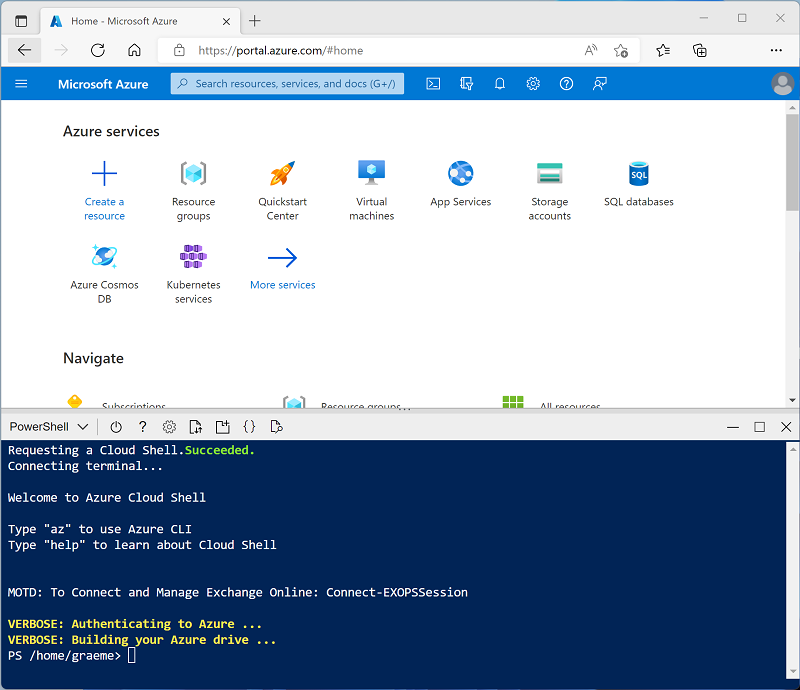
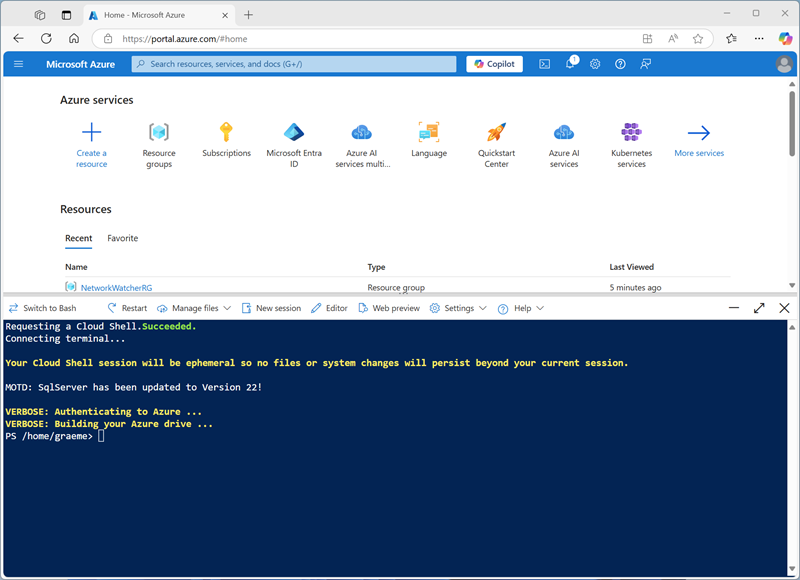
UI updates

diff --git a/Instructions/Exercises/LA-01-Explore-Azure-Databricks.md b/Instructions/Exercises/LA-01-Explore-Azure-Databricks.md
@@ -7,7 +7,9 @@ lab:
 
 Azure Databricks is a Microsoft Azure-based version of the popular open-source Databricks platform.
 
-Similarly to Azure Synapse Analytics, an Azure Databricks *workspace* provides a central point for managing Databricks clusters, data, and resources on Azure.
+An Azure Databricks *workspace* provides a central point for managing Databricks clusters, data, and resources on Azure.
+
+In this exercise, you'll provision an Azure Databricks workspace and explore some of its core capabilities. 
 
 This exercise should take approximately **20** minutes to complete.
 
@@ -15,32 +17,15 @@ This exercise should take approximately **20** minutes to complete.
 
 > **Tip**: If you already have an Azure Databricks workspace, you can skip this procedure and use your existing workspace.
 
-This exercise includes a script to provision a new Azure Databricks workspace. The script attempts to create a *Premium* tier Azure Databricks workspace resource in a region in which your Azure subscription has sufficient quota for the compute cores required in this exercise; and assumes your user account has sufficient permissions in the subscription to create an Azure Databricks workspace resource. If the script fails due to insufficient quota or permissions, you can try to [create an Azure Databricks workspace interactively in the Azure portal](https://learn.microsoft.com/azure/databricks/getting-started/#--create-an-azure-databricks-workspace).
+1. Sign into the **Azure portal** at `https://portal.azure.com`.
+2. Create an **Azure Databricks** resource with the following settings:
+    - **Subscription**: *Select your Azure subscription*
+    - **Resource group**: *Create a new resource group named `msl-xxxxxxx` (where "xxxxxxx" is a unique value)*
+    - **Region**: *Select any available region*
+    - **Name**: `databricks-xxxxxxx` *(where "xxxxxxx" is a unique value)*
+    - **Pricing tier**: *Premium* or *Trial*
 
-1. In a web browser, sign into the [Azure portal](https://portal.azure.com) at `https://portal.azure.com`.
-2. Use the **[\>_]** button to the right of the search bar at the top of the page to create a new Cloud Shell in the Azure portal, selecting a ***PowerShell*** environment and creating storage if prompted. The cloud shell provides a command line interface in a pane at the bottom of the Azure portal, as shown here:
-
-    ![Azure portal with a cloud shell pane](./images/cloud-shell.png)
-
-    > **Note**: If you have previously created a cloud shell that uses a *Bash* environment, use the drop-down menu at the top left of the cloud shell pane to change it to ***PowerShell***.
-
-3. Note that you can resize the cloud shell by dragging the separator bar at the top of the pane, or by using the **&#8212;**, **&#9723;**, and **X** icons at the top right of the pane to minimize, maximize, and close the pane. For more information about using the Azure Cloud Shell, see the [Azure Cloud Shell documentation](https://docs.microsoft.com/azure/cloud-shell/overview).
-
-4. In the PowerShell pane, enter the following commands to clone this repo:
-
-    ```
-    rm -r mslearn-databricks -f
-    git clone https://github.com/MicrosoftLearning/mslearn-databricks
-    ```
-
-5. After the repo has been cloned, enter the following command to run the **setup.ps1** script, which provisions an Azure Databricks workspace in an available region:
-
-    ```
-    ./mslearn-databricks/setup.ps1
-    ```
-
-6. If prompted, choose which subscription you want to use (this will only happen if you have access to multiple Azure subscriptions).
-7. Wait for the script to complete - this typically takes around 5 minutes, but in some cases may take longer. While you are waiting, review the [What is Azure Databricks?](https://learn.microsoft.com/azure/databricks/introduction/) article in the Azure Databricks documentation.
+3. Select **Review + create** and wait for deployment to complete. Then go to the resource and launch the workspace.
 
 ## Create a cluster
 
@@ -48,13 +33,12 @@ Azure Databricks is a distributed processing platform that uses Apache Spark *cl
 
 > **Tip**: If you already have a cluster with a 13.3 LTS or higher runtime version in your Azure Databricks workspace, you can use it to complete this exercise and skip this procedure.
 
-1. In the Azure portal, browse to the **msl-*xxxxxxx*** resource group that was created by the script (or the resource group containing your existing Azure Databricks workspace)
-1. Select your Azure Databricks Service resource (named **databricks-*xxxxxxx*** if you used the setup script to create it).
+1. In the Azure portal, browse to the **msl-*xxxxxxx*** resource group (or the resource group containing your existing Azure Databricks workspace) and select your Azure Databricks Service resource.
 1. In the **Overview** page for your workspace, use the **Launch Workspace** button to open your Azure Databricks workspace in a new browser tab; signing in if prompted.
 
     > **Tip**: As you use the Databricks Workspace portal, various tips and notifications may be displayed. Dismiss these and follow the instructions provided to complete the tasks in this exercise.
 
-1. In the sidebar on the left, select the **(+) New** task, and then select **Cluster**.
+1. In the sidebar on the left, select the **(+) New** task, and then select **Cluster** (you may need to look in the **More** submenu)
 1. In the **New Cluster** page, create a new cluster with the following settings:
     - **Cluster name**: *User Name's* cluster (the default cluster name)
     - **Policy**: Unrestricted
@@ -67,17 +51,17 @@ Azure Databricks is a distributed processing platform that uses Apache Spark *cl
 
 1. Wait for the cluster to be created. It may take a minute or two.
 
-> **Note**: If your cluster fails to start, your subscription may have insufficient quota in the region where your Azure Databricks workspace is provisioned. See [CPU core limit prevents cluster creation](https://docs.microsoft.com/azure/databricks/kb/clusters/azure-core-limit) for details. If this happens, you can try deleting your workspace and creating a new one in a different region. You can specify a region as a parameter for the setup script like this: `./mslearn-databricks/setup.ps1 eastus`
+> **Note**: If your cluster fails to start, your subscription may have insufficient quota in the region where your Azure Databricks workspace is provisioned. See [CPU core limit prevents cluster creation](https://docs.microsoft.com/azure/databricks/kb/clusters/azure-core-limit) for details. If this happens, you can try deleting your workspace and creating a new one in a different region.
 
 ## Use Spark to analyze data
 
 As in many Spark environments, Databricks supports the use of notebooks to combine notes and interactive code cells that you can use to explore data.
 
 1. Download the [**products.csv**](https://raw.githubusercontent.com/MicrosoftLearning/mslearn-databricks/main/data/products.csv) file from `https://raw.githubusercontent.com/MicrosoftLearning/mslearn-databricks/main/data/products.csv` to your local computer, saving it as **products.csv**.
-1. In the sidebar, in the **(+) New** link menu, select **Data**.
+1. In the sidebar, in the **(+) New** link menu, select **Add or upload data**.
 1. Select **Create or modify table** and upload the **products.csv** file you downloaded to your computer.
 1. In the **Create or modify table from file upload** page, ensure that your cluster is selected at the top right of the page. Then choose the **hive_metastore** catalog and its default schema to create a new table named **products**.
-1. In the **catalog Explorer** page when the **products** page has been created, in the **Create** button menu, select **Notebook** to create a notebook.
+1. In the **Catalog Explorer** page when the **products** table has been created, in the **Create** button menu, select **Notebook** to create a notebook.
 1. In the notebook, ensure that the notebook is connected to your cluster and then review the code that has been automatically been added to the first cell; which should look similar to this:
 
     ```python
@@ -100,7 +84,10 @@ As in many Spark environments, Databricks supports the use of notebooks to combi
 
 While most data analysts are comfortable using SQL code as used in the previous example, some data analysts and data scientists can use native Spark objects such as a *dataframe* in programming languages such as *PySpark* (A Spark-optimized version of Python) to work efficiently with data.
 
-1. In the notebook, under the chart output from the previously run code cell, use the **+** icon to add a new cell.
+1. In the notebook, under the chart output from the previously run code cell, use the **+ Code** icon to add a new cell.
+
+    > **Tip**: You may need to move the mouse under the output cell to make the **+ Code** icon appear.
+
 1. Enter and run the following code in the new cell:
 
     ```python

diff --git a/Instructions/Exercises/LA-02-Explore-data.md b/Instructions/Exercises/LA-02-Explore-data.md
@@ -22,13 +22,13 @@ This exercise includes a script to provision a new Azure Databricks workspace. T
 If the script fails due to insufficient quota or permissions, you can try to [create an Azure Databricks workspace interactively in the Azure portal](https://learn.microsoft.com/azure/databricks/getting-started/#--create-an-azure-databricks-workspace).
 
 1. In a web browser, sign into the [Azure portal](https://portal.azure.com) at `https://portal.azure.com`.
-2. Use the **[\>_]** button to the right of the search bar at the top of the page to create a new Cloud Shell in the Azure portal, selecting a ***PowerShell*** environment and creating storage if prompted. The cloud shell provides a command line interface in a pane at the bottom of the Azure portal, as shown here:
+2. Use the **[\>_]** button to the right of the search bar at the top of the page to create a new Cloud Shell in the Azure portal, selecting a ***PowerShell*** environment. The cloud shell provides a command line interface in a pane at the bottom of the Azure portal, as shown here:
 
     ![Azure portal with a cloud shell pane](./images/cloud-shell.png)
 
-    > **Note**: If you have previously created a cloud shell that uses a *Bash* environment, use the drop-down menu at the top left of the cloud shell pane to change it to ***PowerShell***.
+    > **Note**: If you have previously created a cloud shell that uses a *Bash* environment, switch it to ***PowerShell***.
 
-3. Note that you can resize the cloud shell by dragging the separator bar at the top of the pane, or by using the **&#8212;**, **&#9723;**, and **X** icons at the top right of the pane to minimize, maximize, and close the pane. For more information about using the Azure Cloud Shell, see the [Azure Cloud Shell documentation](https://docs.microsoft.com/azure/cloud-shell/overview).
+3. Note that you can resize the cloud shell by dragging the separator bar at the top of the pane, or by using the **&#8212;**, **&#10530;**, and **X** icons at the top right of the pane to minimize, maximize, and close the pane. For more information about using the Azure Cloud Shell, see the [Azure Cloud Shell documentation](https://docs.microsoft.com/azure/cloud-shell/overview).
 
 4. In the PowerShell pane, enter the following commands to clone this repo:
 
@@ -60,7 +60,7 @@ In this exercise, you'll create a *single-node* cluster to minimize the compute 
 
     > **Tip**: As you use the Databricks Workspace portal, various tips and notifications may be displayed. Dismiss these and follow the instructions provided to complete the tasks in this exercise.
 
-1. In the sidebar on the left, select the **(+) New** task, and then select **Cluster**.
+1. In the sidebar on the left, select the **(+) New** task, and then select **Cluster** (You may need to look in the **More** submenu)
 1. In the **New Cluster** page, create a new cluster with the following settings:
     - **Cluster name**: *User Name's* cluster (the default cluster name)
     - **Policy**: Unrestricted
@@ -98,7 +98,7 @@ In this exercise, you'll create a *single-node* cluster to minimize the compute 
 
 ## Query data in files
 
-1. Under the existing code cell, use the **+** icon to add a new code cell. Then in the new cell, enter and run the following code to load the data from the files and view the first 100 rows.
+1. Move the mouse under the existing code cell, and use the **+ Code** icon that appears to add a new code cell. Then in the new cell, enter and run the following code to load the data from the files and view the first 100 rows.
 
     ```python
    df = spark.read.load('spark_lab/*.csv', format='csv')

diff --git a/Instructions/Exercises/AI-01-Explore-LLMs.md b/Instructions/Exercises/AI-01-Explore-LLMs.md
@@ -20,14 +20,13 @@ You'll need an [Azure subscription](https://azure.microsoft.com/free) in which y
 This exercise includes a script to provision a new Azure Databricks workspace. The script attempts to create a *Premium* tier Azure Databricks workspace resource in a region in which your Azure subscription has sufficient quota for the compute cores required in this exercise; and assumes your user account has sufficient permissions in the subscription to create an Azure Databricks workspace resource. If the script fails due to insufficient quota or permissions, you can try to [create an Azure Databricks workspace interactively in the Azure portal](https://learn.microsoft.com/azure/databricks/getting-started/#--create-an-azure-databricks-workspace).
 
 1. In a web browser, sign into the [Azure portal](https://portal.azure.com) at `https://portal.azure.com`.
-
-2. Use the **[\>_]** button to the right of the search bar at the top of the page to create a new Cloud Shell in the Azure portal, selecting a ***PowerShell*** environment and creating storage if prompted. The cloud shell provides a command line interface in a pane at the bottom of the Azure portal, as shown here:
+2. Use the **[\>_]** button to the right of the search bar at the top of the page to create a new Cloud Shell in the Azure portal, selecting a ***PowerShell*** environment. The cloud shell provides a command line interface in a pane at the bottom of the Azure portal, as shown here:
 
     ![Azure portal with a cloud shell pane](./images/cloud-shell.png)
 
-    > **Note**: If you have previously created a cloud shell that uses a *Bash* environment, use the the drop-down menu at the top left of the cloud shell pane to change it to ***PowerShell***.
+    > **Note**: If you have previously created a cloud shell that uses a *Bash* environment, switch it to ***PowerShell***.
 
-3. Note that you can resize the cloud shell by dragging the separator bar at the top of the pane, or by using the **&#8212;**, **&#9723;**, and **X** icons at the top right of the pane to minimize, maximize, and close the pane. For more information about using the Azure Cloud Shell, see the [Azure Cloud Shell documentation](https://docs.microsoft.com/azure/cloud-shell/overview).
+3. Note that you can resize the cloud shell by dragging the separator bar at the top of the pane, or by using the **&#8212;**, **&#10530;**, and **X** icons at the top right of the pane to minimize, maximize, and close the pane. For more information about using the Azure Cloud Shell, see the [Azure Cloud Shell documentation](https://docs.microsoft.com/azure/cloud-shell/overview).
 
 4. In the PowerShell pane, enter the following commands to clone this repo:
 

diff --git a/Instructions/Exercises/AI-02-RAG.md b/Instructions/Exercises/AI-02-RAG.md
@@ -20,14 +20,13 @@ You'll need an [Azure subscription](https://azure.microsoft.com/free) in which y
 This exercise includes a script to provision a new Azure Databricks workspace. The script attempts to create a *Premium* tier Azure Databricks workspace resource in a region in which your Azure subscription has sufficient quota for the compute cores required in this exercise; and assumes your user account has sufficient permissions in the subscription to create an Azure Databricks workspace resource. If the script fails due to insufficient quota or permissions, you can try to [create an Azure Databricks workspace interactively in the Azure portal](https://learn.microsoft.com/azure/databricks/getting-started/#--create-an-azure-databricks-workspace).
 
 1. In a web browser, sign into the [Azure portal](https://portal.azure.com) at `https://portal.azure.com`.
-
-2. Use the **[\>_]** button to the right of the search bar at the top of the page to create a new Cloud Shell in the Azure portal, selecting a ***PowerShell*** environment and creating storage if prompted. The cloud shell provides a command line interface in a pane at the bottom of the Azure portal, as shown here:
+2. Use the **[\>_]** button to the right of the search bar at the top of the page to create a new Cloud Shell in the Azure portal, selecting a ***PowerShell*** environment. The cloud shell provides a command line interface in a pane at the bottom of the Azure portal, as shown here:
 
     ![Azure portal with a cloud shell pane](./images/cloud-shell.png)
 
-    > **Note**: If you have previously created a cloud shell that uses a *Bash* environment, use the the drop-down menu at the top left of the cloud shell pane to change it to ***PowerShell***.
+    > **Note**: If you have previously created a cloud shell that uses a *Bash* environment, switch it to ***PowerShell***.
 
-3. Note that you can resize the cloud shell by dragging the separator bar at the top of the pane, or by using the **&#8212;**, **&#9723;**, and **X** icons at the top right of the pane to minimize, maximize, and close the pane. For more information about using the Azure Cloud Shell, see the [Azure Cloud Shell documentation](https://docs.microsoft.com/azure/cloud-shell/overview).
+3. Note that you can resize the cloud shell by dragging the separator bar at the top of the pane, or by using the **&#8212;**, **&#10530;**, and **X** icons at the top right of the pane to minimize, maximize, and close the pane. For more information about using the Azure Cloud Shell, see the [Azure Cloud Shell documentation](https://docs.microsoft.com/azure/cloud-shell/overview).
 
 4. In the PowerShell pane, enter the following commands to clone this repo:
 

diff --git a/Instructions/Exercises/DE-06-Implement-data-privacy.md b/Instructions/Exercises/DE-06-Implement-data-privacy.md
@@ -20,14 +20,13 @@ You'll need an [Azure subscription](https://azure.microsoft.com/free) in which y
 This exercise includes a script to provision a new Azure Databricks workspace. The script attempts to create a *Premium* tier Azure Databricks workspace resource in a region in which your Azure subscription has sufficient quota for the compute cores required in this exercise; and assumes your user account has sufficient permissions in the subscription to create an Azure Databricks workspace resource. If the script fails due to insufficient quota or permissions, you can try to [create an Azure Databricks workspace interactively in the Azure portal](https://learn.microsoft.com/azure/databricks/getting-started/#--create-an-azure-databricks-workspace).
 
 1. In a web browser, sign into the [Azure portal](https://portal.azure.com) at `https://portal.azure.com`.
-
-2. Use the **[\>_]** button to the right of the search bar at the top of the page to create a new Cloud Shell in the Azure portal, selecting a ***PowerShell*** environment and creating storage if prompted. The cloud shell provides a command line interface in a pane at the bottom of the Azure portal, as shown here:
+2. Use the **[\>_]** button to the right of the search bar at the top of the page to create a new Cloud Shell in the Azure portal, selecting a ***PowerShell*** environment. The cloud shell provides a command line interface in a pane at the bottom of the Azure portal, as shown here:
 
     ![Azure portal with a cloud shell pane](./images/cloud-shell.png)
 
-    > **Note**: If you have previously created a cloud shell that uses a *Bash* environment, use the the drop-down menu at the top left of the cloud shell pane to change it to ***PowerShell***.
+    > **Note**: If you have previously created a cloud shell that uses a *Bash* environment, switch it to ***PowerShell***.
 
-3. Note that you can resize the cloud shell by dragging the separator bar at the top of the pane, or by using the **&#8212;**, **&#9723;**, and **X** icons at the top right of the pane to minimize, maximize, and close the pane. For more information about using the Azure Cloud Shell, see the [Azure Cloud Shell documentation](https://docs.microsoft.com/azure/cloud-shell/overview).
+3. Note that you can resize the cloud shell by dragging the separator bar at the top of the pane, or by using the **&#8212;**, **&#10530;**, and **X** icons at the top right of the pane to minimize, maximize, and close the pane. For more information about using the Azure Cloud Shell, see the [Azure Cloud Shell documentation](https://docs.microsoft.com/azure/cloud-shell/overview).
 
 4. In the PowerShell pane, enter the following commands to clone this repo:
 

diff --git a/Instructions/Exercises/DS-03-Train-machine-learning-model.md b/Instructions/Exercises/DS-03-Train-machine-learning-model.md
@@ -20,13 +20,13 @@ You'll need an [Azure subscription](https://azure.microsoft.com/free) in which y
 This exercise includes a script to provision a new Azure Databricks workspace. The script attempts to create a *Premium* tier Azure Databricks workspace resource in a region in which your Azure subscription has sufficient quota for the compute cores required in this exercise; and assumes your user account has sufficient permissions in the subscription to create an Azure Databricks workspace resource. If the script fails due to insufficient quota or permissions, you can try to [create an Azure Databricks workspace interactively in the Azure portal](https://learn.microsoft.com/azure/databricks/getting-started/#--create-an-azure-databricks-workspace).
 
 1. In a web browser, sign into the [Azure portal](https://portal.azure.com) at `https://portal.azure.com`.
-2. Use the **[\>_]** button to the right of the search bar at the top of the page to create a new Cloud Shell in the Azure portal, selecting a ***PowerShell*** environment and creating storage if prompted. The cloud shell provides a command line interface in a pane at the bottom of the Azure portal, as shown here:
+2. Use the **[\>_]** button to the right of the search bar at the top of the page to create a new Cloud Shell in the Azure portal, selecting a ***PowerShell*** environment. The cloud shell provides a command line interface in a pane at the bottom of the Azure portal, as shown here:
 
     ![Azure portal with a cloud shell pane](./images/cloud-shell.png)
 
-    > **Note**: If you have previously created a cloud shell that uses a *Bash* environment, use the the drop-down menu at the top left of the cloud shell pane to change it to ***PowerShell***.
+    > **Note**: If you have previously created a cloud shell that uses a *Bash* environment, switch it to ***PowerShell***.
 
-3. Note that you can resize the cloud shell by dragging the separator bar at the top of the pane, or by using the **&#8212;**, **&#9723;**, and **X** icons at the top right of the pane to minimize, maximize, and close the pane. For more information about using the Azure Cloud Shell, see the [Azure Cloud Shell documentation](https://docs.microsoft.com/azure/cloud-shell/overview).
+3. Note that you can resize the cloud shell by dragging the separator bar at the top of the pane, or by using the **&#8212;**, **&#10530;**, and **X** icons at the top right of the pane to minimize, maximize, and close the pane. For more information about using the Azure Cloud Shell, see the [Azure Cloud Shell documentation](https://docs.microsoft.com/azure/cloud-shell/overview).
 
 4. In the PowerShell pane, enter the following commands to clone this repo:
 

diff --git a/Instructions/Exercises/DS-04-Use-MLflow.md b/Instructions/Exercises/DS-04-Use-MLflow.md
@@ -20,13 +20,13 @@ You'll need an [Azure subscription](https://azure.microsoft.com/free) in which y
 This exercise includes a script to provision a new Azure Databricks workspace. The script attempts to create a *Premium* tier Azure Databricks workspace resource in a region in which your Azure subscription has sufficient quota for the compute cores required in this exercise; and assumes your user account has sufficient permissions in the subscription to create an Azure Databricks workspace resource. If the script fails due to insufficient quota or permissions, you can try to [create an Azure Databricks workspace interactively in the Azure portal](https://learn.microsoft.com/azure/databricks/getting-started/#--create-an-azure-databricks-workspace).
 
 1. In a web browser, sign into the [Azure portal](https://portal.azure.com) at `https://portal.azure.com`.
-2. Use the **[\>_]** button to the right of the search bar at the top of the page to create a new Cloud Shell in the Azure portal, selecting a ***PowerShell*** environment and creating storage if prompted. The cloud shell provides a command line interface in a pane at the bottom of the Azure portal, as shown here:
+2. Use the **[\>_]** button to the right of the search bar at the top of the page to create a new Cloud Shell in the Azure portal, selecting a ***PowerShell*** environment. The cloud shell provides a command line interface in a pane at the bottom of the Azure portal, as shown here:
 
     ![Azure portal with a cloud shell pane](./images/cloud-shell.png)
 
-    > **Note**: If you have previously created a cloud shell that uses a *Bash* environment, use the the drop-down menu at the top left of the cloud shell pane to change it to ***PowerShell***.
+    > **Note**: If you have previously created a cloud shell that uses a *Bash* environment, switch it to ***PowerShell***.
 
-3. Note that you can resize the cloud shell by dragging the separator bar at the top of the pane, or by using the **&#8212;**, **&#9723;**, and **X** icons at the top right of the pane to minimize, maximize, and close the pane. For more information about using the Azure Cloud Shell, see the [Azure Cloud Shell documentation](https://docs.microsoft.com/azure/cloud-shell/overview).
+3. Note that you can resize the cloud shell by dragging the separator bar at the top of the pane, or by using the **&#8212;**, **&#10530;**, and **X** icons at the top right of the pane to minimize, maximize, and close the pane. For more information about using the Azure Cloud Shell, see the [Azure Cloud Shell documentation](https://docs.microsoft.com/azure/cloud-shell/overview).
 
 4. In the PowerShell pane, enter the following commands to clone this repo:
 

diff --git a/Instructions/Exercises/DS-05-Use-AutoML.md b/Instructions/Exercises/DS-05-Use-AutoML.md
@@ -20,13 +20,13 @@ You'll need an [Azure subscription](https://azure.microsoft.com/free) in which y
 This exercise includes a script to provision a new Azure Databricks workspace. The script attempts to create a *Premium* tier Azure Databricks workspace resource in a region in which your Azure subscription has sufficient quota for the compute cores required in this exercise; and assumes your user account has sufficient permissions in the subscription to create an Azure Databricks workspace resource. If the script fails due to insufficient quota or permissions, you can try to [create an Azure Databricks workspace interactively in the Azure portal](https://learn.microsoft.com/azure/databricks/getting-started/#--create-an-azure-databricks-workspace).
 
 1. In a web browser, sign into the [Azure portal](https://portal.azure.com) at `https://portal.azure.com`.
-2. Use the **[\>_]** button to the right of the search bar at the top of the page to create a new Cloud Shell in the Azure portal, selecting a ***PowerShell*** environment and creating storage if prompted. The cloud shell provides a command line interface in a pane at the bottom of the Azure portal, as shown here:
+2. Use the **[\>_]** button to the right of the search bar at the top of the page to create a new Cloud Shell in the Azure portal, selecting a ***PowerShell*** environment. The cloud shell provides a command line interface in a pane at the bottom of the Azure portal, as shown here:
 
     ![Azure portal with a cloud shell pane](./images/cloud-shell.png)
 
-    > **Note**: If you have previously created a cloud shell that uses a *Bash* environment, use the the drop-down menu at the top left of the cloud shell pane to change it to ***PowerShell***.
+    > **Note**: If you have previously created a cloud shell that uses a *Bash* environment, switch it to ***PowerShell***.
 
-3. Note that you can resize the cloud shell by dragging the separator bar at the top of the pane, or by using the **&#8212;**, **&#9723;**, and **X** icons at the top right of the pane to minimize, maximize, and close the pane. For more information about using the Azure Cloud Shell, see the [Azure Cloud Shell documentation](https://docs.microsoft.com/azure/cloud-shell/overview).
+3. Note that you can resize the cloud shell by dragging the separator bar at the top of the pane, or by using the **&#8212;**, **&#10530;**, and **X** icons at the top right of the pane to minimize, maximize, and close the pane. For more information about using the Azure Cloud Shell, see the [Azure Cloud Shell documentation](https://docs.microsoft.com/azure/cloud-shell/overview).
 
 4. In the PowerShell pane, enter the following commands to clone this repo:
 

diff --git a/Instructions/Exercises/DS-06-Tune-hyperparameters.md b/Instructions/Exercises/DS-06-Tune-hyperparameters.md
@@ -20,13 +20,13 @@ You'll need an [Azure subscription](https://azure.microsoft.com/free) in which y
 This exercise includes a script to provision a new Azure Databricks workspace. The script attempts to create a *Premium* tier Azure Databricks workspace resource in a region in which your Azure subscription has sufficient quota for the compute cores required in this exercise; and assumes your user account has sufficient permissions in the subscription to create an Azure Databricks workspace resource. If the script fails due to insufficient quota or permissions, you can try to [create an Azure Databricks workspace interactively in the Azure portal](https://learn.microsoft.com/azure/databricks/getting-started/#--create-an-azure-databricks-workspace).
 
 1. In a web browser, sign into the [Azure portal](https://portal.azure.com) at `https://portal.azure.com`.
-2. Use the **[\>_]** button to the right of the search bar at the top of the page to create a new Cloud Shell in the Azure portal, selecting a ***PowerShell*** environment and creating storage if prompted. The cloud shell provides a command line interface in a pane at the bottom of the Azure portal, as shown here:
+2. Use the **[\>_]** button to the right of the search bar at the top of the page to create a new Cloud Shell in the Azure portal, selecting a ***PowerShell*** environment. The cloud shell provides a command line interface in a pane at the bottom of the Azure portal, as shown here:
 
     ![Azure portal with a cloud shell pane](./images/cloud-shell.png)
 
-    > **Note**: If you have previously created a cloud shell that uses a *Bash* environment, use the the drop-down menu at the top left of the cloud shell pane to change it to ***PowerShell***.
+    > **Note**: If you have previously created a cloud shell that uses a *Bash* environment, switch it to ***PowerShell***.
 
-3. Note that you can resize the cloud shell by dragging the separator bar at the top of the pane, or by using the **&#8212;**, **&#9723;**, and **X** icons at the top right of the pane to minimize, maximize, and close the pane. For more information about using the Azure Cloud Shell, see the [Azure Cloud Shell documentation](https://docs.microsoft.com/azure/cloud-shell/overview).
+3. Note that you can resize the cloud shell by dragging the separator bar at the top of the pane, or by using the **&#8212;**, **&#10530;**, and **X** icons at the top right of the pane to minimize, maximize, and close the pane. For more information about using the Azure Cloud Shell, see the [Azure Cloud Shell documentation](https://docs.microsoft.com/azure/cloud-shell/overview).
 
 4. In the PowerShell pane, enter the following commands to clone this repo:
 

diff --git a/Instructions/Exercises/DS-07-Machine-learning-in-production.md b/Instructions/Exercises/DS-07-Machine-learning-in-production.md
@@ -20,13 +20,13 @@ You'll need an [Azure subscription](https://azure.microsoft.com/free) in which y
 This exercise includes a script to provision a new Azure Databricks workspace. The script attempts to create a *Premium* tier Azure Databricks workspace resource in a region in which your Azure subscription has sufficient quota for the compute cores required in this exercise; and assumes your user account has sufficient permissions in the subscription to create an Azure Databricks workspace resource. If the script fails due to insufficient quota or permissions, you can try to [create an Azure Databricks workspace interactively in the Azure portal](https://learn.microsoft.com/azure/databricks/getting-started/#--create-an-azure-databricks-workspace).
 
 1. In a web browser, sign into the [Azure portal](https://portal.azure.com) at `https://portal.azure.com`.
-2. Use the **[\>_]** button to the right of the search bar at the top of the page to create a new Cloud Shell in the Azure portal, selecting a ***PowerShell*** environment and creating storage if prompted. The cloud shell provides a command line interface in a pane at the bottom of the Azure portal, as shown here:
+2. Use the **[\>_]** button to the right of the search bar at the top of the page to create a new Cloud Shell in the Azure portal, selecting a ***PowerShell*** environment. The cloud shell provides a command line interface in a pane at the bottom of the Azure portal, as shown here:
 
     ![Azure portal with a cloud shell pane](./images/cloud-shell.png)
 
-    > **Note**: If you have previously created a cloud shell that uses a *Bash* environment, use the the drop-down menu at the top left of the cloud shell pane to change it to ***PowerShell***.
+    > **Note**: If you have previously created a cloud shell that uses a *Bash* environment, switch it to ***PowerShell***.
 
-3. Note that you can resize the cloud shell by dragging the separator bar at the top of the pane, or by using the **&#8212;**, **&#9723;**, and **X** icons at the top right of the pane to minimize, maximize, and close the pane. For more information about using the Azure Cloud Shell, see the [Azure Cloud Shell documentation](https://docs.microsoft.com/azure/cloud-shell/overview).
+3. Note that you can resize the cloud shell by dragging the separator bar at the top of the pane, or by using the **&#8212;**, **&#10530;**, and **X** icons at the top right of the pane to minimize, maximize, and close the pane. For more information about using the Azure Cloud Shell, see the [Azure Cloud Shell documentation](https://docs.microsoft.com/azure/cloud-shell/overview).
 
 4. In the PowerShell pane, enter the following commands to clone this repo:
 

diff --git a/Instructions/Exercises/DS-08-Train-deep-learning-model.md b/Instructions/Exercises/DS-08-Train-deep-learning-model.md
@@ -20,13 +20,13 @@ You'll need an [Azure subscription](https://azure.microsoft.com/free) in which y
 This exercise includes a script to provision a new Azure Databricks workspace. The script attempts to create a *Premium* tier Azure Databricks workspace resource in a region in which your Azure subscription has sufficient quota for the compute cores required in this exercise; and assumes your user account has sufficient permissions in the subscription to create an Azure Databricks workspace resource. If the script fails due to insufficient quota or permissions, you can try to [create an Azure Databricks workspace interactively in the Azure portal](https://learn.microsoft.com/azure/databricks/getting-started/#--create-an-azure-databricks-workspace).
 
 1. In a web browser, sign into the [Azure portal](https://portal.azure.com) at `https://portal.azure.com`.
-2. Use the **[\>_]** button to the right of the search bar at the top of the page to create a new Cloud Shell in the Azure portal, selecting a ***PowerShell*** environment and creating storage if prompted. The cloud shell provides a command line interface in a pane at the bottom of the Azure portal, as shown here:
+2. Use the **[\>_]** button to the right of the search bar at the top of the page to create a new Cloud Shell in the Azure portal, selecting a ***PowerShell*** environment. The cloud shell provides a command line interface in a pane at the bottom of the Azure portal, as shown here:
 
     ![Azure portal with a cloud shell pane](./images/cloud-shell.png)
 
-    > **Note**: If you have previously created a cloud shell that uses a *Bash* environment, use the the drop-down menu at the top left of the cloud shell pane to change it to ***PowerShell***.
+    > **Note**: If you have previously created a cloud shell that uses a *Bash* environment, switch it to ***PowerShell***.
 
-3. Note that you can resize the cloud shell by dragging the separator bar at the top of the pane, or by using the **&#8212;**, **&#9723;**, and **X** icons at the top right of the pane to minimize, maximize, and close the pane. For more information about using the Azure Cloud Shell, see the [Azure Cloud Shell documentation](https://docs.microsoft.com/azure/cloud-shell/overview).
+3. Note that you can resize the cloud shell by dragging the separator bar at the top of the pane, or by using the **&#8212;**, **&#10530;**, and **X** icons at the top right of the pane to minimize, maximize, and close the pane. For more information about using the Azure Cloud Shell, see the [Azure Cloud Shell documentation](https://docs.microsoft.com/azure/cloud-shell/overview).
 
 4. In the PowerShell pane, enter the following commands to clone this repo:
 

diff --git a/Instructions/Exercises/DE-07-Use-SQL-warehouse.md b/Instructions/Exercises/DE-07-Use-SQL-warehouse.md
@@ -16,13 +16,13 @@ This exercise should take approximately **30** minutes to complete.
 This exercise includes a script to provision a new Azure Databricks workspace. The script attempts to create a *Premium* tier Azure Databricks workspace resource in a region in which your Azure subscription has sufficient quota for the compute cores required in this exercise; and assumes your user account has sufficient permissions in the subscription to create an Azure Databricks workspace resource. If the script fails due to insufficient quota or permissions, you can try to [create an Azure Databricks workspace interactively in the Azure portal](https://learn.microsoft.com/azure/databricks/getting-started/#--create-an-azure-databricks-workspace).
 
 1. In a web browser, sign into the [Azure portal](https://portal.azure.com) at `https://portal.azure.com`.
-2. Use the **[\>_]** button to the right of the search bar at the top of the page to create a new Cloud Shell in the Azure portal, selecting a ***PowerShell*** environment and creating storage if prompted. The cloud shell provides a command line interface in a pane at the bottom of the Azure portal, as shown here:
+2. Use the **[\>_]** button to the right of the search bar at the top of the page to create a new Cloud Shell in the Azure portal, selecting a ***PowerShell*** environment. The cloud shell provides a command line interface in a pane at the bottom of the Azure portal, as shown here:
 
     ![Azure portal with a cloud shell pane](./images/cloud-shell.png)
 
-    > **Note**: If you have previously created a cloud shell that uses a *Bash* environment, use the drop-down menu at the top left of the cloud shell pane to change it to ***PowerShell***.
+    > **Note**: If you have previously created a cloud shell that uses a *Bash* environment, switch it to ***PowerShell***.
 
-3. Note that you can resize the cloud shell by dragging the separator bar at the top of the pane, or by using the **&#8212;**, **&#9723;**, and **X** icons at the top right of the pane to minimize, maximize, and close the pane. For more information about using the Azure Cloud Shell, see the [Azure Cloud Shell documentation](https://docs.microsoft.com/azure/cloud-shell/overview).
+3. Note that you can resize the cloud shell by dragging the separator bar at the top of the pane, or by using the **&#8212;**, **&#10530;**, and **X** icons at the top right of the pane to minimize, maximize, and close the pane. For more information about using the Azure Cloud Shell, see the [Azure Cloud Shell documentation](https://docs.microsoft.com/azure/cloud-shell/overview).
 
 4. In the PowerShell pane, enter the following commands to clone this repo:
 
